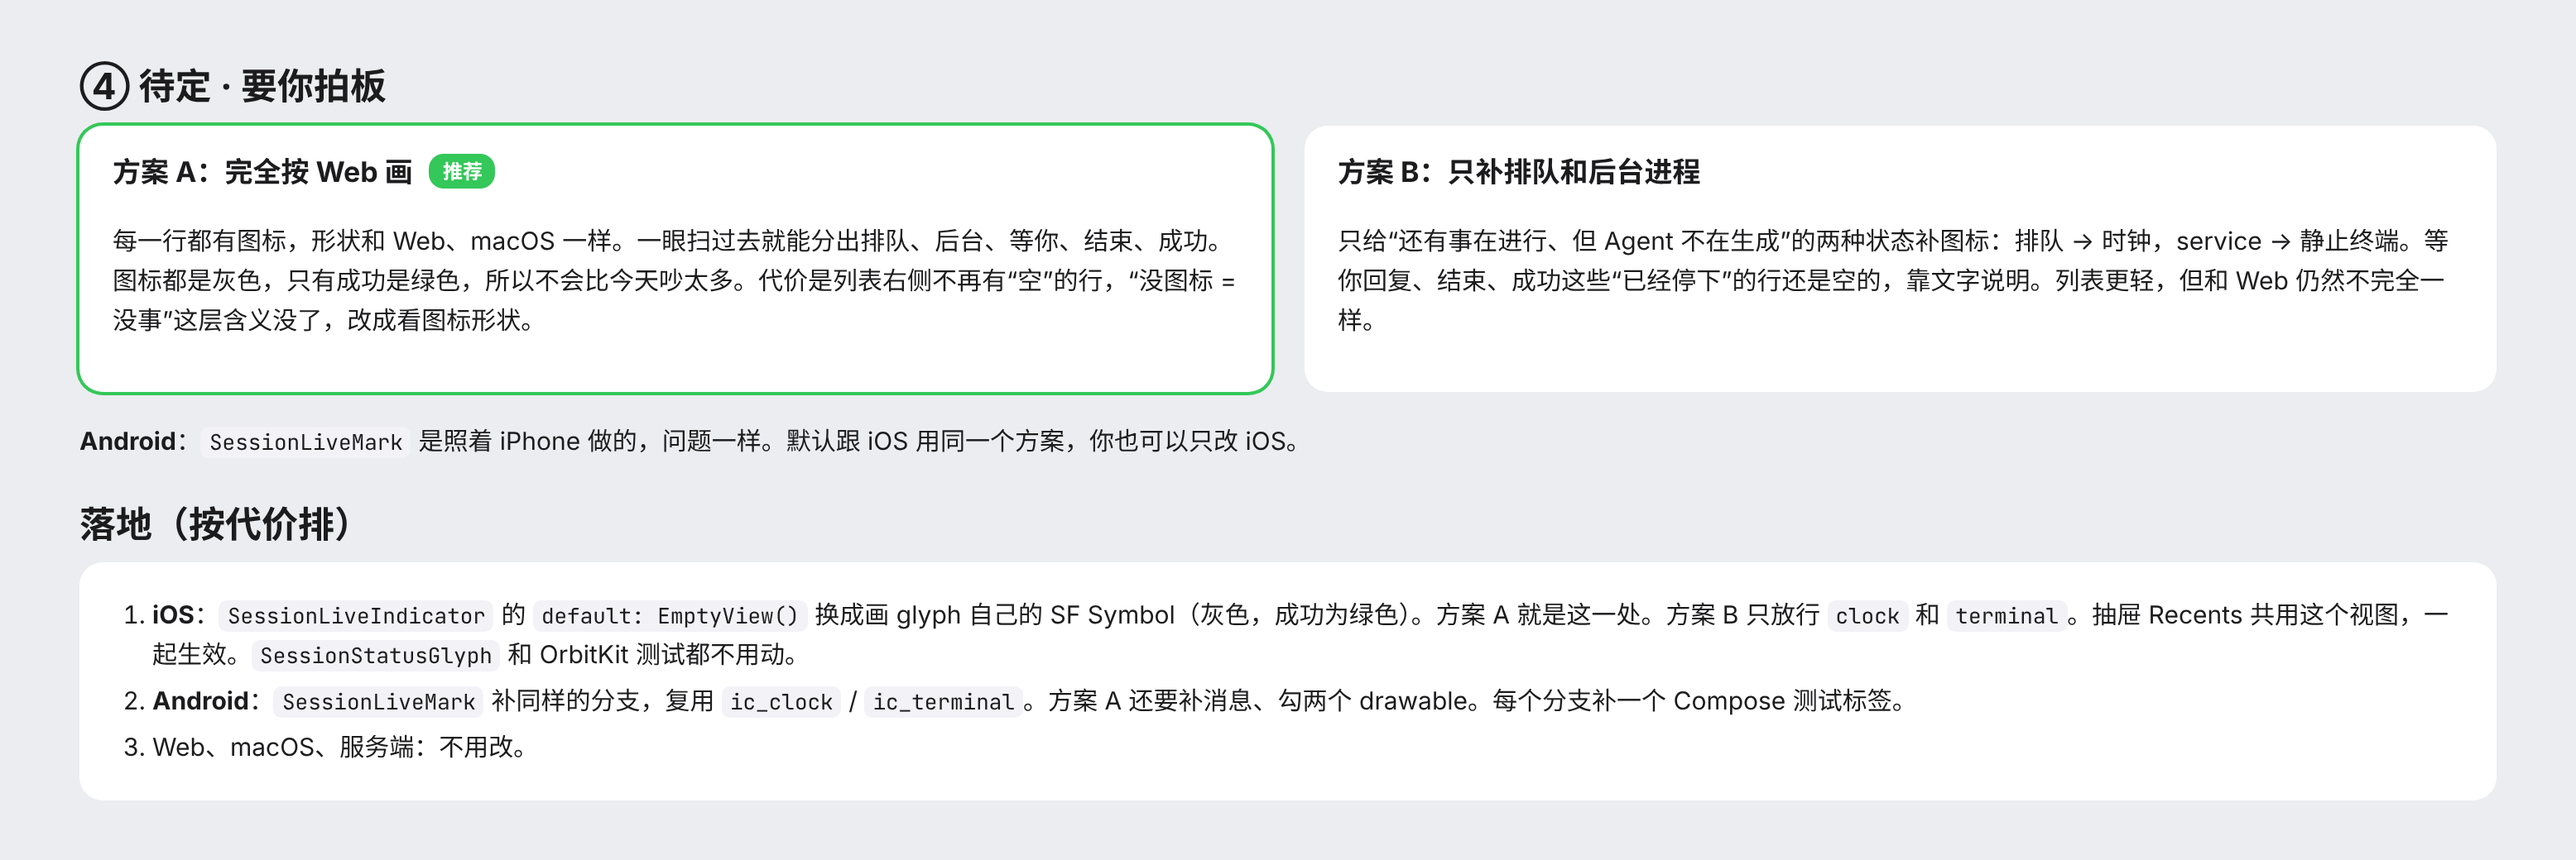
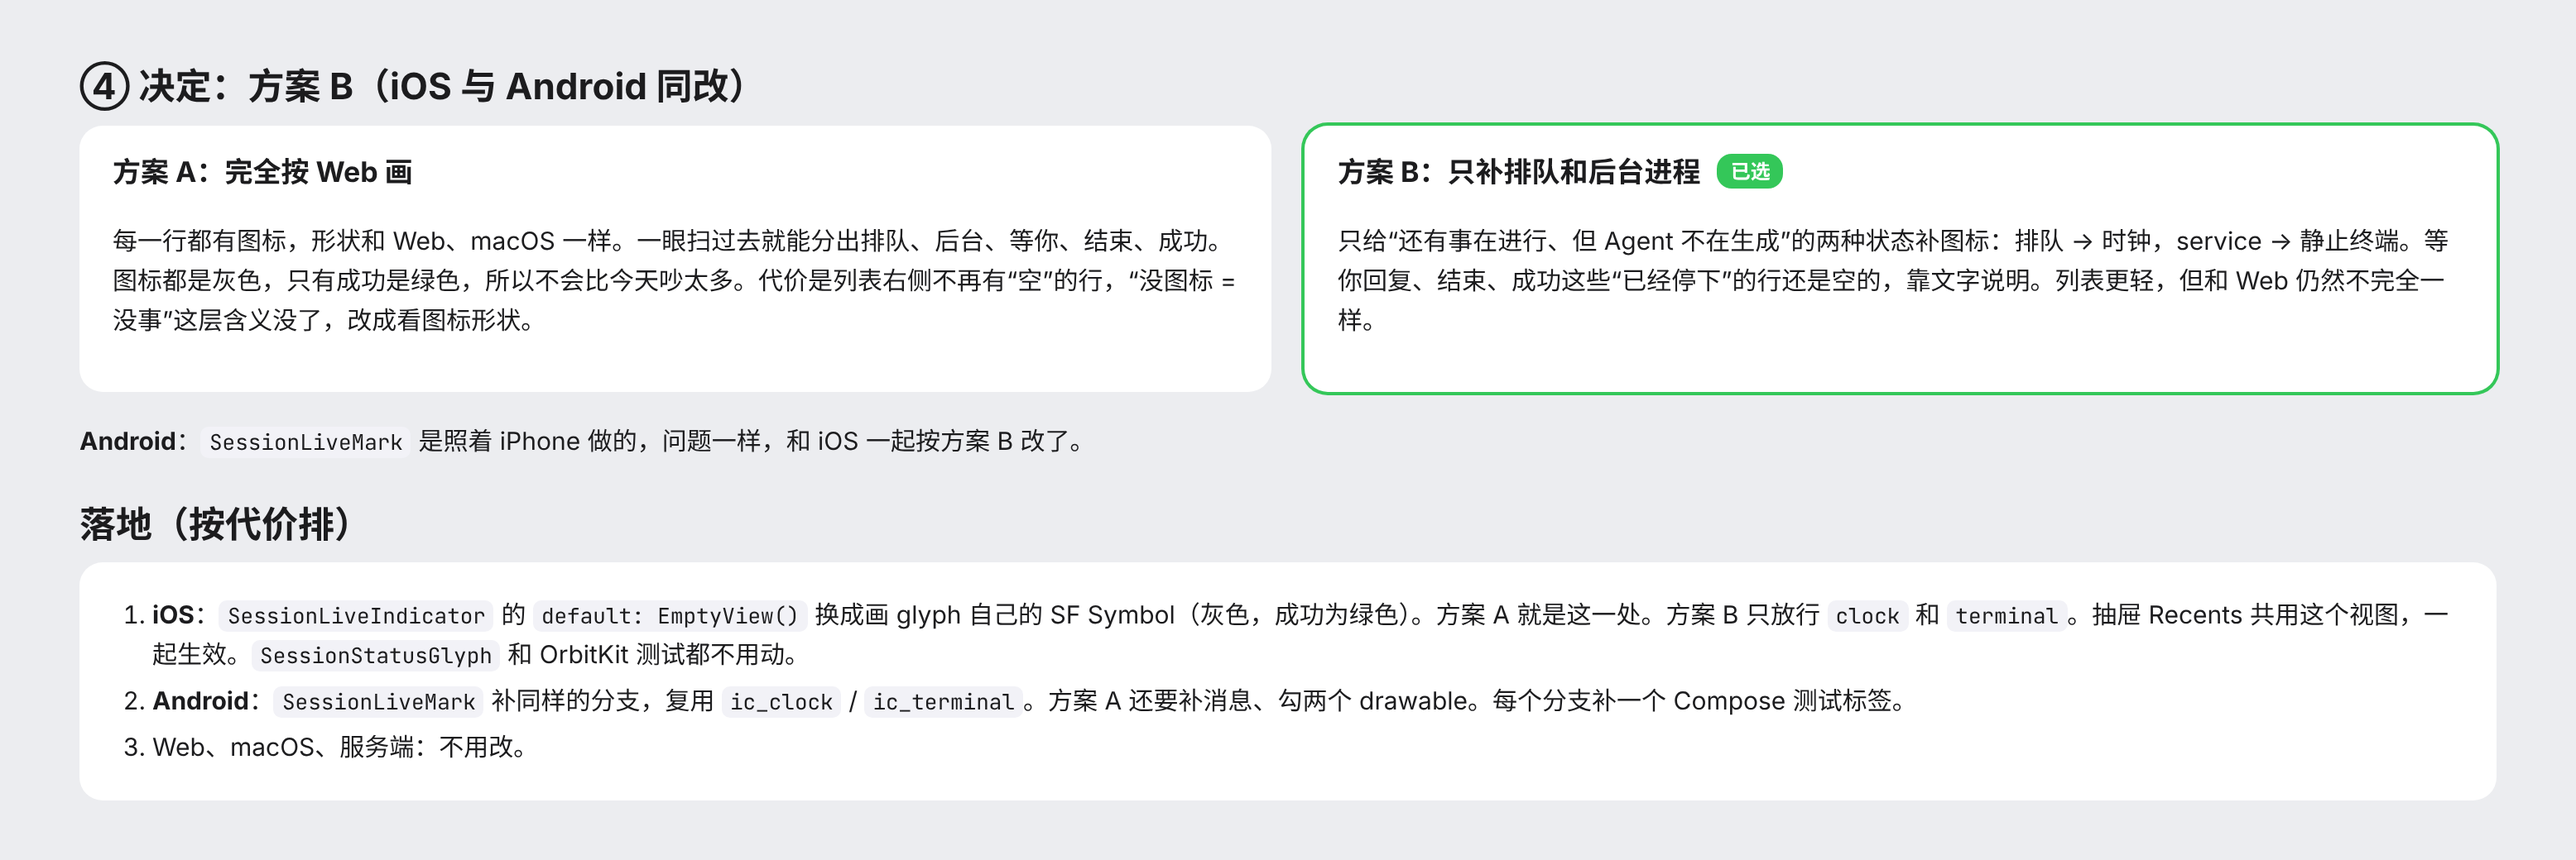
docs(mocks): mark option B as the chosen one on the iOS session-row glyph board

diff --git a/docs/mocks/ios-bg-terminal-glyph/board.html b/docs/mocks/ios-bg-terminal-glyph/board.html
@@ -126,11 +126,11 @@ function phone(variant) {
   <p class="b-sub">图标位置不变：标题右侧、时间前面，也就是今天 spinner 所在的位置。绿底 = 比今天多出图标的行。iPhone 已有的灰色 spinner、琥珀点、红点保持不变。</p>
   <div class="b-stage">
     <div class="b-col">
-      <div class="b-cap">方案 A · 和 Web 一样，每行都有 <small>推荐</small></div>
+      <div class="b-cap">方案 A · 和 Web 一样，每行都有</div>
       <div class="b-host" id="a"></div>
     </div>
     <div class="b-col">
-      <div class="b-cap">方案 B · 只补“还有事在进行”的两种</div>
+      <div class="b-cap">方案 B · 只补“还有事在进行”的两种 <small>已选 · 已上线</small></div>
       <div class="b-host" id="b"></div>
     </div>
   </div>
@@ -143,18 +143,18 @@ function phone(variant) {
 </section>
 
 <section class="b-part" id="part-4">
-  <h2>④ 待定 · 要你拍板</h2>
+  <h2>④ 决定：方案 B（iOS 与 Android 同改）</h2>
   <div class="b-stage" style="gap:20px">
-    <div class="opt rec">
-      <h3>方案 A：完全按 Web 画 <span class="tag">推荐</span></h3>
+    <div class="opt">
+      <h3>方案 A：完全按 Web 画</h3>
       <p>每一行都有图标，形状和 Web、macOS 一样。一眼扫过去就能分出排队、后台、等你、结束、成功。图标都是灰色，只有成功是绿色，所以不会比今天吵太多。代价是列表右侧不再有“空”的行，“没图标 = 没事”这层含义没了，改成看图标形状。</p>
     </div>
-    <div class="opt">
-      <h3>方案 B：只补排队和后台进程</h3>
+    <div class="opt rec">
+      <h3>方案 B：只补排队和后台进程 <span class="tag">已选</span></h3>
       <p>只给“还有事在进行、但 Agent 不在生成”的两种状态补图标：排队 → 时钟，service → 静止终端。等你回复、结束、成功这些“已经停下”的行还是空的，靠文字说明。列表更轻，但和 Web 仍然不完全一样。</p>
     </div>
   </div>
-  <p style="margin:18px 0 6px"><b>Android</b>：<code>SessionLiveMark</code> 是照着 iPhone 做的，问题一样。默认跟 iOS 用同一个方案，你也可以只改 iOS。</p>
+  <p style="margin:18px 0 6px"><b>Android</b>：<code>SessionLiveMark</code> 是照着 iPhone 做的，问题一样，和 iOS 一起按方案 B 改了。</p>
   <h2 style="margin-top:22px">落地（按代价排）</h2>
   <ol class="land">
     <li><b>iOS</b>：<code>SessionLiveIndicator</code> 的 <code>default: EmptyView()</code> 换成画 glyph 自己的 SF Symbol（灰色，成功为绿色）。方案 A 就是这一处。方案 B 只放行 <code>clock</code> 和 <code>terminal</code>。抽屉 Recents 共用这个视图，一起生效。<code>SessionStatusGlyph</code> 和 OrbitKit 测试都不用动。</li>
